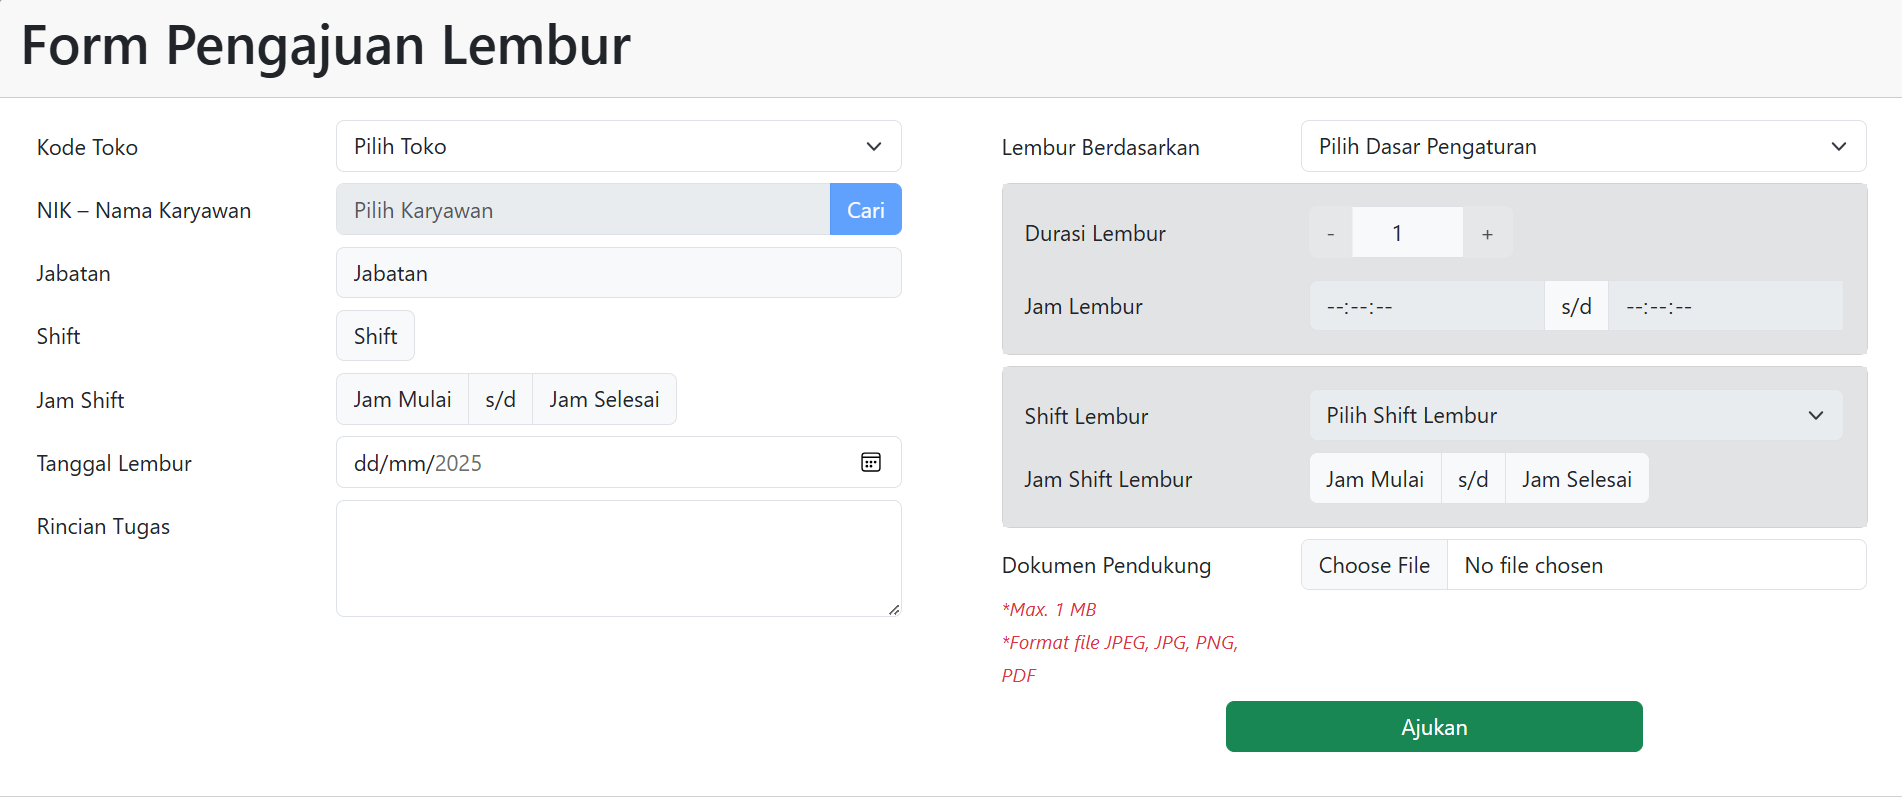
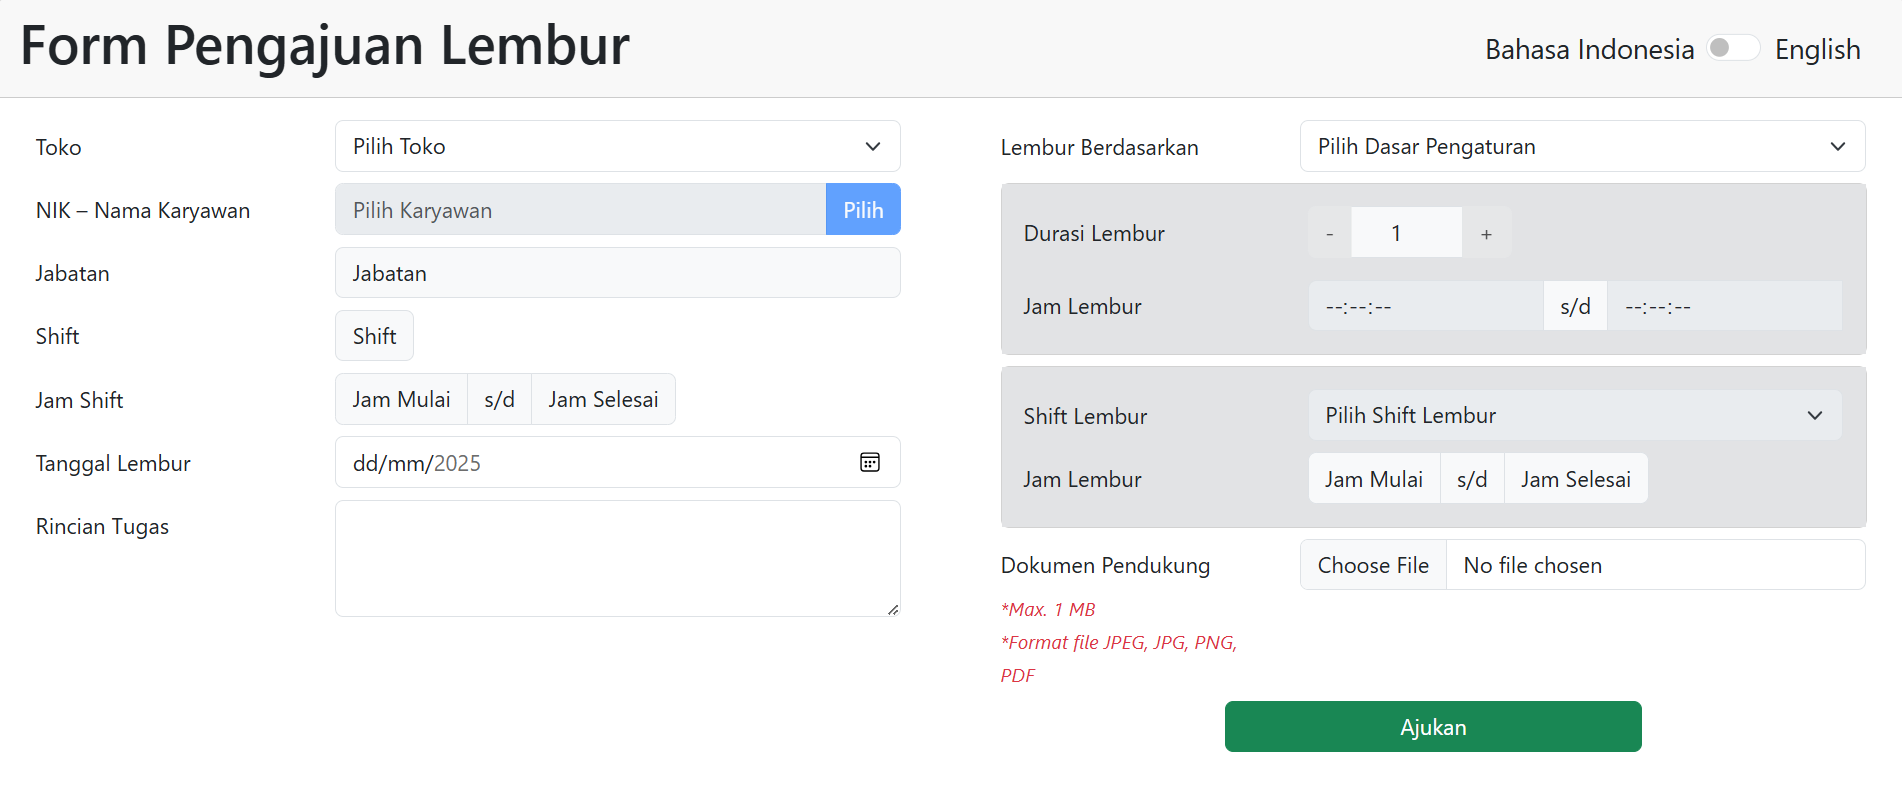
Finish English localization for Overtime Request Form.

diff --git a/src/views/MyForm.vue b/src/views/MyForm.vue
@@ -8,7 +8,13 @@
         <div class="pb-2 me-3 position-absolute top-50 end-0 translate-middle-y">
           <label class="d-inline-block mb-5 fs-5 me-2">Bahasa Indonesia</label>
           <div class="d-inline-block mb-5 form-check form-switch fs-5">
-            <input v-model="isEnglish" class="form-check-input" type="checkbox" role="switch" id="localeSwitch">
+            <input
+              v-model="isEnglish"
+              class="form-check-input"
+              type="checkbox"
+              role="switch"
+              id="localeSwitch"
+            />
             <label class="form-check-label" for="localeSwitch">English</label>
           </div>
         </div>
@@ -16,7 +22,13 @@
       <div class="d-block d-md-none col px-0">
         <label class="d-inline-block fs-5 me-2">Bahasa Indonesia</label>
         <div class="d-inline-block form-check form-switch fs-5">
-          <input v-model="isEnglish" class="form-check-input" type="checkbox" role="switch" id="localeSwitch">
+          <input
+            v-model="isEnglish"
+            class="form-check-input"
+            type="checkbox"
+            role="switch"
+            id="localeSwitch"
+          />
           <label class="form-check-label" for="localeSwitch">English</label>
         </div>
       </div>
@@ -65,7 +77,9 @@
                   data-bs-target="#cariKaryawanModal"
                   :disabled="!inputModels.toko.value"
                   :title="
-                    inputModels.toko.value ? viewStrings.emptyString : viewStrings.cariKaryawanTitle
+                    inputModels.toko.value
+                      ? viewStrings.emptyString
+                      : $t('message.tokoPrerequisite')
                   "
                 >
                   {{ $t('button.pilih') }}
@@ -79,7 +93,9 @@
           <div class="row mb-2">
             <label for="jabatan" class="col-sm-4 col-form-label">{{ $t('label.jabatan') }}</label>
             <div class="col-sm-8">
-              <span id="jabatan" class="input-group-text">{{ jabatan || $t('label.jabatan') }}</span>
+              <span id="jabatan" class="input-group-text">{{
+                jabatan || $t('label.jabatan')
+              }}</span>
             </div>
           </div>
           <div class="row mb-2">
@@ -95,13 +111,15 @@
             <div class="col-sm-8">
               <div id="jamShift" class="input-group">
                 <span class="input-group-text">{{ shiftMulai || $t('label.jamMulai') }}</span>
-                <span class="input-group-text">s/d</span>
+                <span class="input-group-text">{{ $t('label.until') }}</span>
                 <span class="input-group-text">{{ shiftSelesai || $t('label.jamSelesai') }}</span>
               </div>
             </div>
           </div>
           <div class="row mb-2">
-            <label for="tanggalLembur" class="col-sm-4 col-form-label">{{ $t('label.tanggalLembur') }}</label>
+            <label for="tanggalLembur" class="col-sm-4 col-form-label">{{
+              $t('label.tanggalLembur')
+            }}</label>
             <div class="col-sm-8">
               <DateInput
                 id="tanggalLembur"
@@ -116,7 +134,9 @@
             </div>
           </div>
           <div class="row mb-2">
-            <label for="rincianTugas" class="col-sm-4 col-form-label">{{ $t('label.rincianTugas') }}</label>
+            <label for="rincianTugas" class="col-sm-4 col-form-label">{{
+              $t('label.rincianTugas')
+            }}</label>
             <div class="col-sm-8">
               <textarea
                 v-model="rincianTugas"
@@ -130,7 +150,9 @@
         </div>
         <div class="col-sm ms-lg-4">
           <div class="row mb-2">
-            <label for="aturBerdasarkan" class="col-sm-4 col-form-label">{{ $t('label.lemburBerdasarkan') }}</label>
+            <label for="aturBerdasarkan" class="col-sm-4 col-form-label">{{
+              $t('label.lemburBerdasarkan')
+            }}</label>
             <div class="col-sm-8">
               <SelectInput
                 id="aturBerdasarkan"
@@ -262,7 +284,7 @@
                     <span class="input-group-text">{{
                       jamShiftLembur.jamMulai.value || $t('label.jamMulai')
                     }}</span>
-                    <span class="input-group-text">s/d</span>
+                    <span class="input-group-text">{{ $t('label.until') }}</span>
                     <span class="input-group-text">{{
                       jamShiftLembur.jamSelesai.value || $t('label.jamSelesai')
                     }}</span>
@@ -273,10 +295,13 @@
           </div>
           <div class="row mb-2">
             <div class="col-lg-4">
-              <label for="dokumenPendukung" class="col-form-label">{{ $t('label.dokumen') }}</label><br />
+              <label for="dokumenPendukung" class="col-form-label">{{ $t('label.dokumen') }}</label
+              ><br />
               <small class="text-danger"><i>*Max. 1 MB</i></small
               ><br />
-              <small class="text-danger"><i>{{ $t('message.fileFormat') }}</i></small>
+              <small class="text-danger"
+                ><i>{{ $t('message.fileFormat') }}</i></small
+              >
             </div>
             <div class="col-lg-8">
               <input
@@ -333,14 +358,13 @@ import SelectInput from '@/components/inputs/SelectInput.vue'
 import { strings } from '@/models/strings'
 import TimeInput from '@/components/inputs/TimeInput.vue'
 import { timesService } from '@/services/times'
-import { useI18n } from 'vue-i18n';
+import { useI18n } from 'vue-i18n'
 
 const aturBerdasarkanEnum = Object.freeze({
   durasiLembur: Symbol(1),
   shiftLembur: Symbol(2),
 })
 const viewStrings = Object.freeze({
-  cariKaryawanTitle: 'Silakan pilih kode toko terlebih dahulu.',
   durasiLembur: 'Durasi',
   emptyString: strings.emptyString,
   en: 'en',
@@ -381,7 +405,7 @@ const employees = [
 ]
 const errorMessage = ref('')
 const isEnglish = ref(false)
-const { locale } = useI18n({ useScope: 'global' });
+const { locale } = useI18n({ useScope: 'global' })
 const warningMessage = ref(viewStrings.emptyString)
 const selectedToko = ref('')
 const durasiLemburMax = ref(8)

diff --git a/src/main.js b/src/main.js
@@ -16,11 +16,11 @@ const i18n = createI18n({
     id: {
       button: {
         ajukan: 'Ajukan',
-        pilih: 'Pilih'
+        pilih: 'Pilih',
       },
       column: {
         jabatan: '@.upper:label.jabatan',
-        shift: '@.upper:label.shift'
+        shift: '@.upper:label.shift',
       },
       placeholder: {
         cari: 'Cari',
@@ -28,11 +28,11 @@ const i18n = createI18n({
         lemburBerdasarkan: 'Pilih Dasar Pengaturan',
         shiftLembur: 'Pilih Shift Lembur',
         toko: 'Pilih Toko',
-        karyawan: 'Pilih Karyawan'
+        karyawan: 'Pilih Karyawan',
       },
       title: {
         cariKaryawanModal: 'Cari NIK/Nama Karyawan',
-        myForm: 'Form Pengajuan Lembur'
+        myForm: 'Form Pengajuan Lembur',
       },
       label: {
         dari: 'dari',
@@ -53,7 +53,7 @@ const i18n = createI18n({
         tanggalLembur: 'Tanggal Lembur',
         toko: 'Toko',
         until: 's/d',
-        karyawan: 'NIK – Nama Karyawan'
+        karyawan: 'NIK – Nama Karyawan',
       },
       message: {
         fileFormat: '*Format file JPEG, JPG, PNG, PDF',
@@ -61,18 +61,19 @@ const i18n = createI18n({
         lemburBerdasarkanRequired: 'Dasar pengaturan wajib dipilih.',
         shiftLemburRequired: 'Shift lembur wajib dipilih.',
         tanggalLemburRequired: 'Tanggal lembur wajib dipilih.',
+        tokoPrerequisite: 'Silakan pilih kode toko terlebih dahulu.',
         tokoRequired: 'Toko wajib dipilih.',
-        karyawanRequired: 'Karyawan wajib dipilih.'
-      }
+        karyawanRequired: 'Karyawan wajib dipilih.',
+      },
     },
     en: {
       button: {
         ajukan: 'Submit',
-        pilih: 'Pick'
+        pilih: 'Pick',
       },
       column: {
         jabatan: '@.upper:label.jabatan',
-        shift: '@.upper:label.shift'
+        shift: '@.upper:label.shift',
       },
       placeholder: {
         cari: 'Search',
@@ -80,11 +81,11 @@ const i18n = createI18n({
         lemburBerdasarkan: 'Select Overtime by',
         shiftLembur: 'Select Overtime Shift',
         toko: 'Select Store',
-        karyawan: 'Select Employee'
+        karyawan: 'Select Employee',
       },
       title: {
         cariKaryawanModal: 'Search Employee ID/Name',
-        myForm: 'Overtime Request Form'
+        myForm: 'Overtime Request Form',
       },
       label: {
         dari: 'of',
@@ -105,7 +106,7 @@ const i18n = createI18n({
         tanggalLembur: 'Overtime Date',
         toko: 'Store',
         until: 'until',
-        karyawan: 'ID – Employee Name'
+        karyawan: 'ID – Employee Name',
       },
       message: {
         fileFormat: '*File formats JPEG, JPG, PNG, PDF',
@@ -113,11 +114,12 @@ const i18n = createI18n({
         lemburBerdasarkanRequired: 'Overtime by is required.',
         shiftLemburRequired: 'Overtime shift is required.',
         tanggalLemburRequired: 'Overtime date is required.',
+        tokoPrerequisite: 'Select a store first.',
         tokoRequired: 'Store is required.',
-        karyawanRequired: 'Employee is required.'
-      }
-    }
-  }
+        karyawanRequired: 'Employee is required.',
+      },
+    },
+  },
 })
 
 app.use(createPinia())

diff --git a/src/components/modals/CariKaryawanModal.vue b/src/components/modals/CariKaryawanModal.vue
@@ -46,7 +46,11 @@
             <div class="col-sm-7"></div>
             <div class="col-12 col-sm-5">
               <div class="input-group ms-auto">
-                <input v-model="searchKeyword" class="form-control" :placeholder="$t('placeholder.cari')" />
+                <input
+                  v-model="searchKeyword"
+                  class="form-control"
+                  :placeholder="$t('placeholder.cari')"
+                />
                 <button class="btn btn-outline-secondary icon-link" type="button">
                   <svg
                     xmlns="http://www.w3.org/2000/svg"

diff --git a/README.md b/README.md
@@ -1,5 +1,5 @@
 # My Form
-<b>My Form</b> is a front end project created using Vue 3 JavaScript composition API and Bootstrap 5.3. It features reactivity and responsiveness when filling an overtime form.
+<b>My Form</b> is a front end project created using Vue 3 JavaScript composition API and Bootstrap 5.3. It features reactivity and responsiveness when filling an overtime form. Bahasa Indonesia and English are available. Localization / internationalization is made available utilizing Vue I18n plugin of Vue.js. 
 
 ## Contents
 
@@ -12,12 +12,25 @@
 
 ### The Form
 
-![Empty Form](screenshots/Form%20Kosong.png)
-![Filled Form](screenshots/Form%20Terisi.png)
+Here are screenshots of the form in Bahasa Indonesia.
+
+![Empty Form (Bahasa Indonesia)](screenshots/Form%20Kosong.png)
+![Filled Form (Bahasa Indonesia)](screenshots/Form%20Terisi.png)
+
+Here are screenshots of the form in English, activated by a switch on top right of the page.
+
+![Empty Form (English)](screenshots/Empty%20Form.png)
+![Filled Form (English)](screenshots/Filled%20Form.png)
 
 ### Search Employee Modal
 
-![Search Employee Modal](screenshots/Modal%20Cari%20Karyawan.png)
+The modal in Bahasa Indonesia.
+
+![Search Employee Modal (Bahasa Indonesia)](screenshots/Modal%20Cari%20Karyawan.png)
+
+The modal in English.
+
+![Search Employee Modal (English)](screenshots/Search%20Employee%20Modal.png)
 
 ## Project Setup
 
